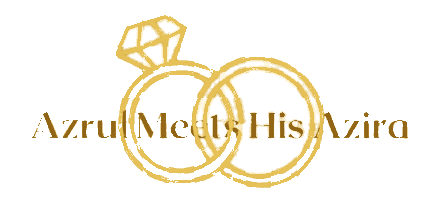
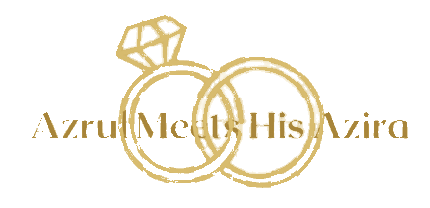
Reduce gold intensity and shrink ring image to heading-proportional size
Gold palette softened to muted warm gold [165,130,55]→[225,198,120].
Image width reduced from clamp(180px,60vw,280px) to clamp(110px,38vw,160px),
proportional to the Meet the Couple section heading font size.

https://claude.ai/code/session_018x4b2J1n9CXnyv5J8g76ME

Changed region(s): [[0.0907, 0.5192, 0.9674, 0.6635], [0.0605, 0.6346, 0.0907, 0.6635]]

diff --git a/index.html b/index.html
@@ -725,7 +725,7 @@ html,body{width:100%;max-width:100vw;overflow-x:hidden;font-family:'EB Garamond'
 <span class="slbl rev">— Jemputan Istimewa —</span>
 <div class="gl rev"></div>
 <div class="rev" style="text-align:center;margin:12px 0;">
-  <img src="jemputan-istimewa.png" alt="Jemputan Istimewa" style="width:clamp(180px,60vw,280px);height:auto;display:block;margin:0 auto;">
+  <img src="jemputan-istimewa.png" alt="Jemputan Istimewa" style="width:clamp(110px,38vw,160px);height:auto;display:block;margin:0 auto;">
 </div>
 <div class="ibox rev">
   <p class="itx">ASALAMUALAIKUM</p>
